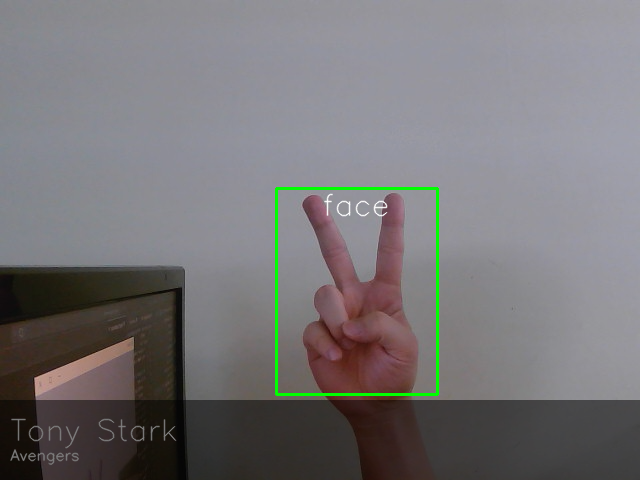
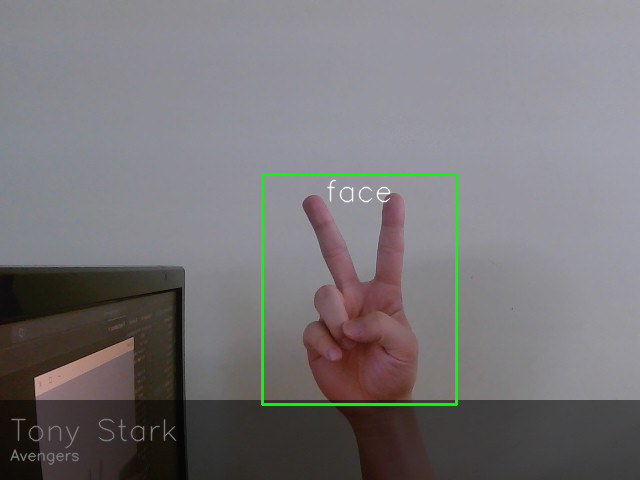
심화: 사각형 범위 안 찍기

Changed region(s): [[0.4062, 0.3438, 0.7188, 0.8438]]

diff --git a/day01_opencv_basic/step3_face_select.py b/day01_opencv_basic/step3_face_select.py
@@ -9,7 +9,7 @@ img_copy = img.copy()  # 백 버퍼 역할 (원본 보존)
 
 # mouse callback function
 def draw_circle(event,x,y,flags,param):
-    global ix, iy, drawing, img, img_copy
+    global ix, iy, drawing, img, img_copy, cropped
 
     if event == cv.EVENT_LBUTTONDOWN:
         drawing = True
@@ -32,6 +32,11 @@ def draw_circle(event,x,y,flags,param):
         text_y = iy + text_h + 5
         
         cv.putText(img, text, (text_x, text_y), font, 1, (255,255,255), 1, cv.LINE_AA)
+
+        x1, y1 = min(ix, x), min(iy, y)  # 드래그 방향 상관없이 정렬
+        x2, y2 = max(ix, x), max(iy, y)
+        cropped = img[y1:y2, x1:x2]  # y: 100~300, x: 200~400
+        
         img_copy = img.copy()
 
 cv.namedWindow('image')
@@ -43,6 +48,7 @@ while(1):
 
     if k == ord("s"):
         cv.imwrite("./save/my_id_card_final.png", img)
+        cv.imwrite("./save/my_id_card_final_sq.png", cropped)
         break
     elif k == ord("q"):
         break
